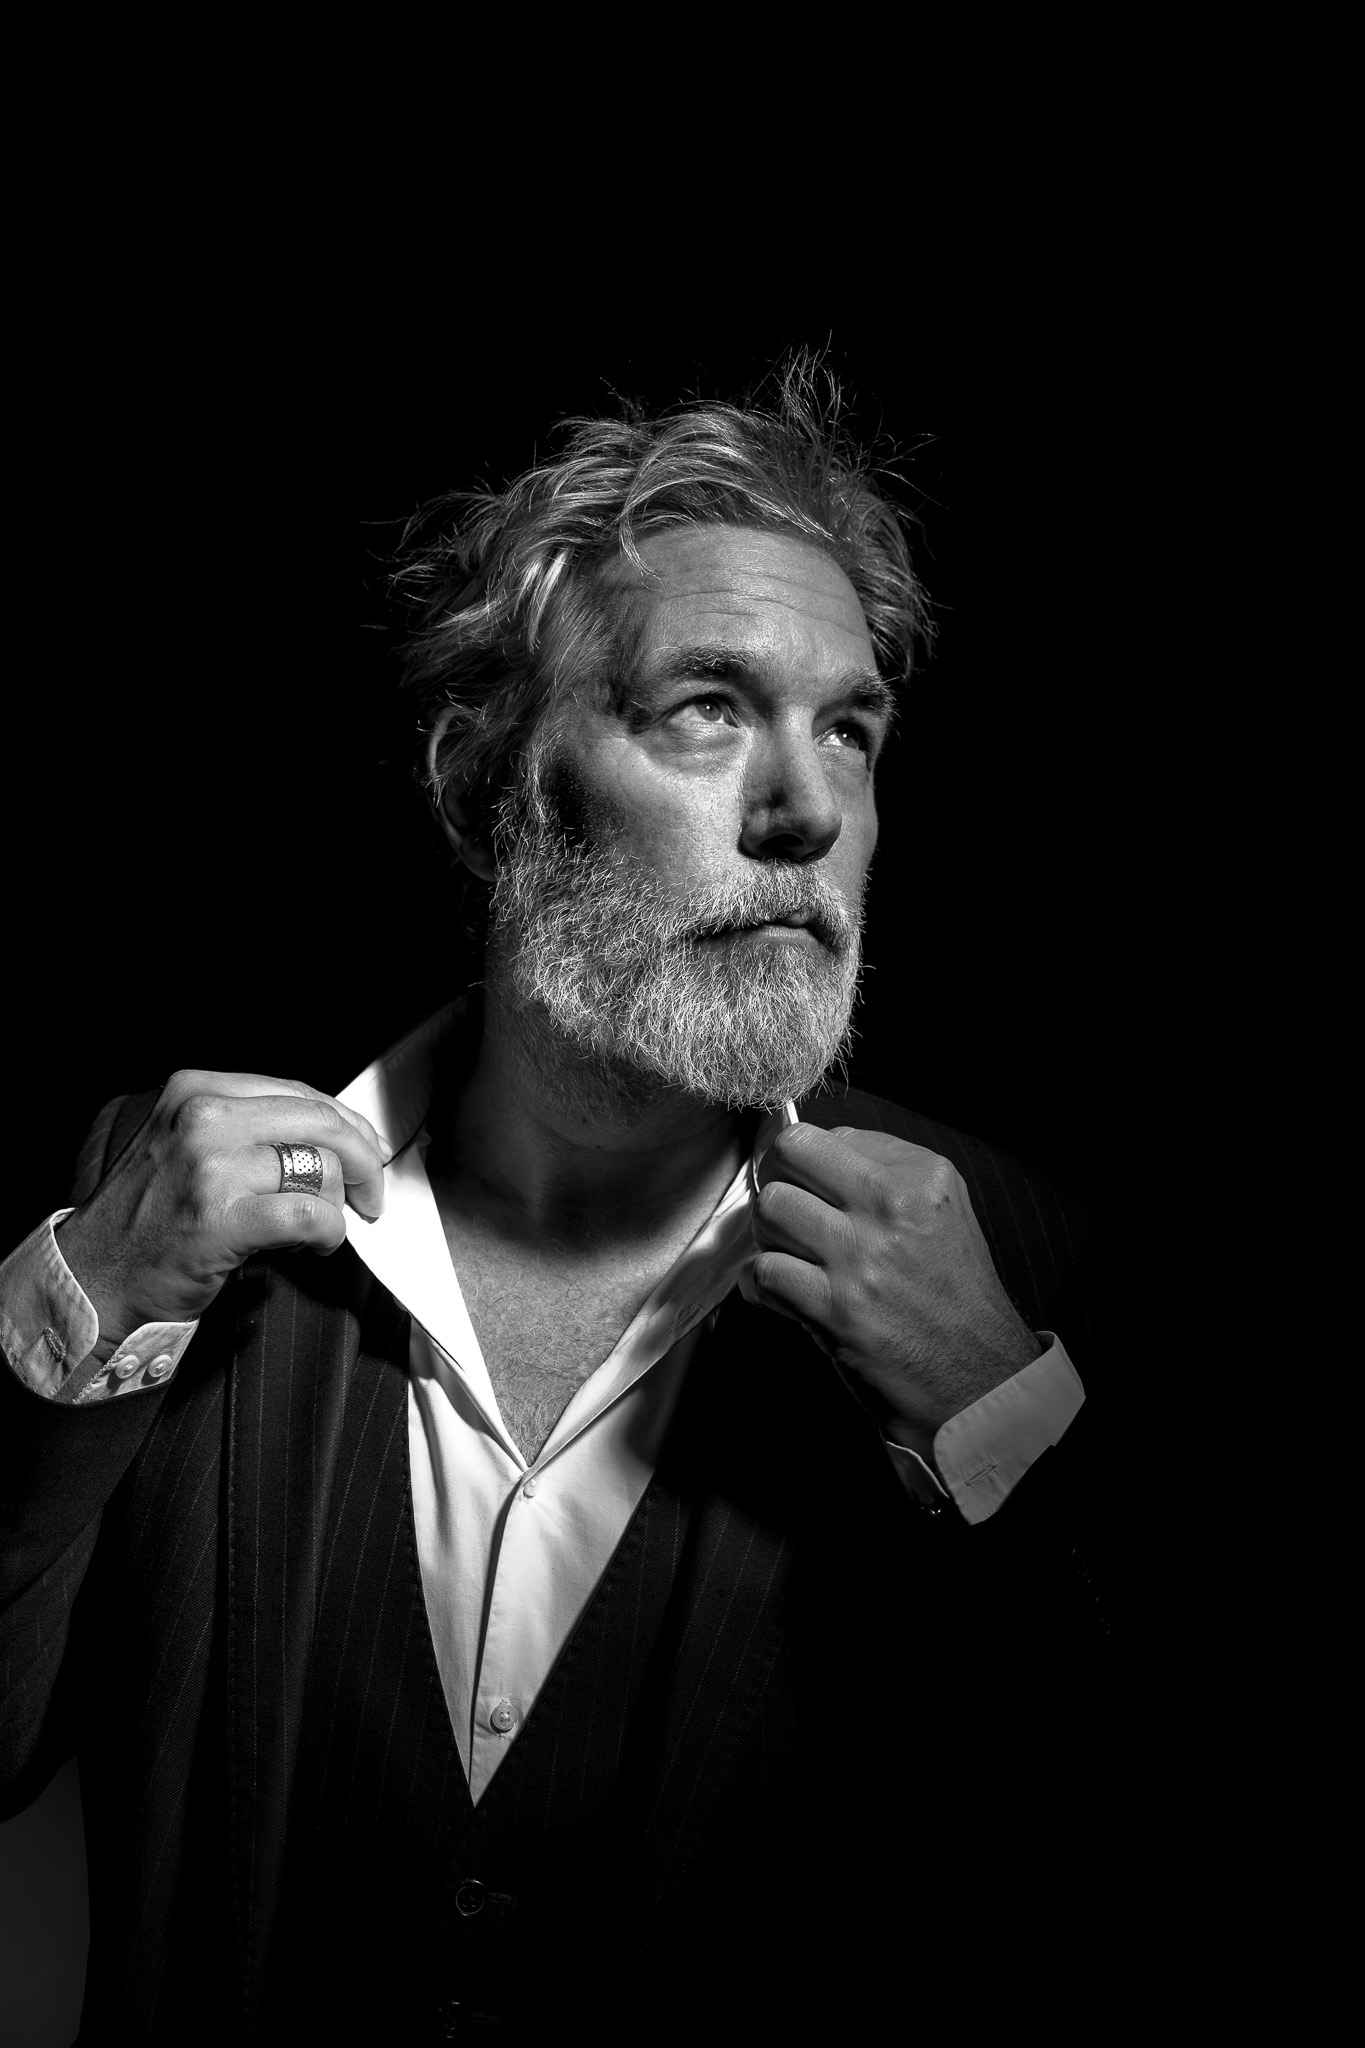
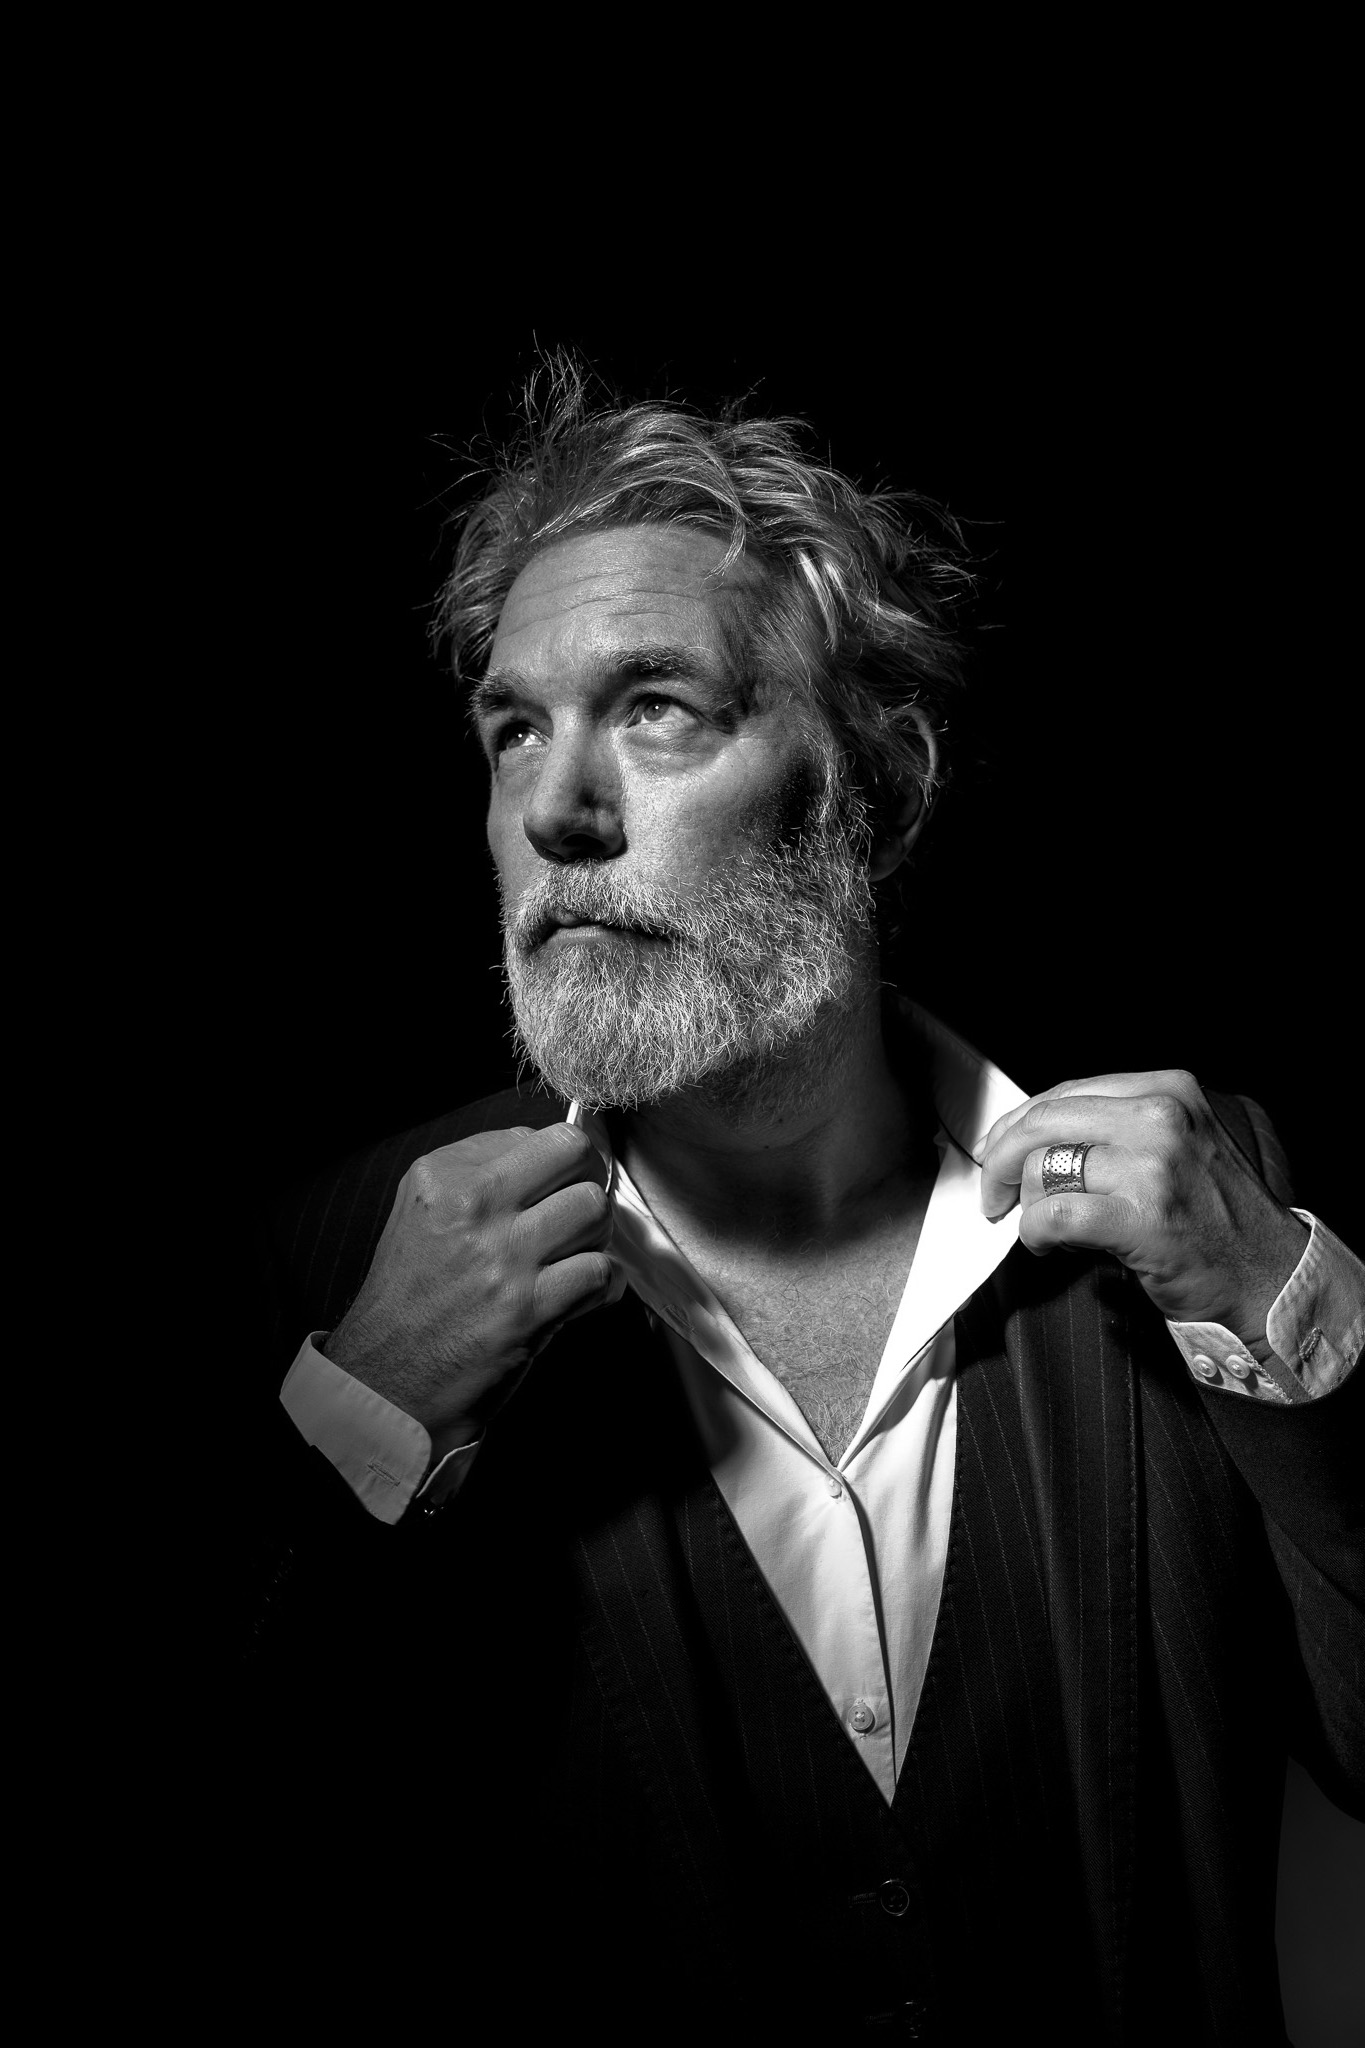
Update anniversaire cover/photos and flip Didier VDB portrait
Remove 6 anniversaire photos, add new cover and one new photo;
flip didier-vdb/05 horizontally so subject faces inward.

diff --git a/src/data/portfolio.ts b/src/data/portfolio.ts
@@ -44,7 +44,6 @@ import evenementielFestivalLauraDegreef03 from "@/images/portfolio/evenementiel/
 import evenementielFestivalLauraDegreef04 from "@/images/portfolio/evenementiel/festival/laura-degreef/04.jpg";
 import evenementielFestivalLauraDegreef05 from "@/images/portfolio/evenementiel/festival/laura-degreef/05.jpg";
 import evenementielAnniversaireCover from "@/images/portfolio/evenementiel/anniversaire/cover.jpg";
-import evenementielAnniversaire01 from "@/images/portfolio/evenementiel/anniversaire/01.jpg";
 import evenementielAnniversaire02 from "@/images/portfolio/evenementiel/anniversaire/02.jpg";
 import evenementielAnniversaire03 from "@/images/portfolio/evenementiel/anniversaire/03.jpg";
 import evenementielAnniversaire04 from "@/images/portfolio/evenementiel/anniversaire/04.jpg";
@@ -61,14 +60,11 @@ import evenementielAnniversaire14 from "@/images/portfolio/evenementiel/annivers
 import evenementielAnniversaire15 from "@/images/portfolio/evenementiel/anniversaire/15.jpg";
 import evenementielAnniversaire16 from "@/images/portfolio/evenementiel/anniversaire/16.jpg";
 import evenementielAnniversaire17 from "@/images/portfolio/evenementiel/anniversaire/17.jpg";
-import evenementielAnniversaire18 from "@/images/portfolio/evenementiel/anniversaire/18.jpg";
 import evenementielAnniversaire19 from "@/images/portfolio/evenementiel/anniversaire/19.jpg";
 import evenementielAnniversaire20 from "@/images/portfolio/evenementiel/anniversaire/20.jpg";
 import evenementielAnniversaire21 from "@/images/portfolio/evenementiel/anniversaire/21.jpg";
-import evenementielAnniversaire22 from "@/images/portfolio/evenementiel/anniversaire/22.jpg";
 import evenementielAnniversaire23 from "@/images/portfolio/evenementiel/anniversaire/23.jpg";
 import evenementielAnniversaire24 from "@/images/portfolio/evenementiel/anniversaire/24.jpg";
-import evenementielAnniversaire25 from "@/images/portfolio/evenementiel/anniversaire/25.jpg";
 import evenementielAnniversaire26 from "@/images/portfolio/evenementiel/anniversaire/26.jpg";
 import evenementielAnniversaire27 from "@/images/portfolio/evenementiel/anniversaire/27.jpg";
 import evenementielAnniversaire28 from "@/images/portfolio/evenementiel/anniversaire/28.jpg";
@@ -81,9 +77,7 @@ import evenementielAnniversaire34 from "@/images/portfolio/evenementiel/annivers
 import evenementielAnniversaire35 from "@/images/portfolio/evenementiel/anniversaire/35.jpg";
 import evenementielAnniversaire36 from "@/images/portfolio/evenementiel/anniversaire/36.jpg";
 import evenementielAnniversaire37 from "@/images/portfolio/evenementiel/anniversaire/37.jpg";
-import evenementielAnniversaire38 from "@/images/portfolio/evenementiel/anniversaire/38.jpg";
 import evenementielAnniversaire39 from "@/images/portfolio/evenementiel/anniversaire/39.jpg";
-import evenementielAnniversaire40 from "@/images/portfolio/evenementiel/anniversaire/40.jpg";
 import evenementielAnniversaire41 from "@/images/portfolio/evenementiel/anniversaire/41.jpg";
 import evenementielAnniversaire42 from "@/images/portfolio/evenementiel/anniversaire/42.jpg";
 import evenementielAnniversaire43 from "@/images/portfolio/evenementiel/anniversaire/43.jpg";
@@ -92,6 +86,7 @@ import evenementielAnniversaire45 from "@/images/portfolio/evenementiel/annivers
 import evenementielAnniversaire46 from "@/images/portfolio/evenementiel/anniversaire/46.jpg";
 import evenementielAnniversaire47 from "@/images/portfolio/evenementiel/anniversaire/47.jpg";
 import evenementielAnniversaire48 from "@/images/portfolio/evenementiel/anniversaire/48.jpg";
+import evenementielAnniversaire49 from "@/images/portfolio/evenementiel/anniversaire/DSC_6323.jpg";
 import portraitCover from "@/images/portfolio/portrait/cover.jpg";
 import portraitCover2 from "@/images/portfolio/portrait/cover2.jpg";
 import portraitLauraDegreefCover from "@/images/portfolio/portrait/laura-degreef/cover.jpg";
@@ -289,18 +284,19 @@ export const categories: CategoryData[] = [
         slug: "anniversaire",
         cover: evenementielAnniversaireCover,
         images: [
-          evenementielAnniversaire01, evenementielAnniversaire02, evenementielAnniversaire03, evenementielAnniversaire04,
+          evenementielAnniversaire02, evenementielAnniversaire03, evenementielAnniversaire04,
           evenementielAnniversaire05, evenementielAnniversaire06, evenementielAnniversaire07, evenementielAnniversaire08,
           evenementielAnniversaire09, evenementielAnniversaire10, evenementielAnniversaire11, evenementielAnniversaire12,
           evenementielAnniversaire13, evenementielAnniversaire14, evenementielAnniversaire15, evenementielAnniversaire16,
-          evenementielAnniversaire17, evenementielAnniversaire18, evenementielAnniversaire19, evenementielAnniversaire20,
-          evenementielAnniversaire21, evenementielAnniversaire22, evenementielAnniversaire23, evenementielAnniversaire24,
-          evenementielAnniversaire25, evenementielAnniversaire26, evenementielAnniversaire27, evenementielAnniversaire28,
+          evenementielAnniversaire17, evenementielAnniversaire19, evenementielAnniversaire20,
+          evenementielAnniversaire21, evenementielAnniversaire23, evenementielAnniversaire24,
+          evenementielAnniversaire26, evenementielAnniversaire27, evenementielAnniversaire28,
           evenementielAnniversaire29, evenementielAnniversaire30, evenementielAnniversaire31, evenementielAnniversaire32,
           evenementielAnniversaire33, evenementielAnniversaire34, evenementielAnniversaire35, evenementielAnniversaire36,
-          evenementielAnniversaire37, evenementielAnniversaire38, evenementielAnniversaire39, evenementielAnniversaire40,
+          evenementielAnniversaire37, evenementielAnniversaire39,
           evenementielAnniversaire41, evenementielAnniversaire42, evenementielAnniversaire43, evenementielAnniversaire44,
           evenementielAnniversaire45, evenementielAnniversaire46, evenementielAnniversaire47, evenementielAnniversaire48,
+          evenementielAnniversaire49,
         ],
       },
     ],
